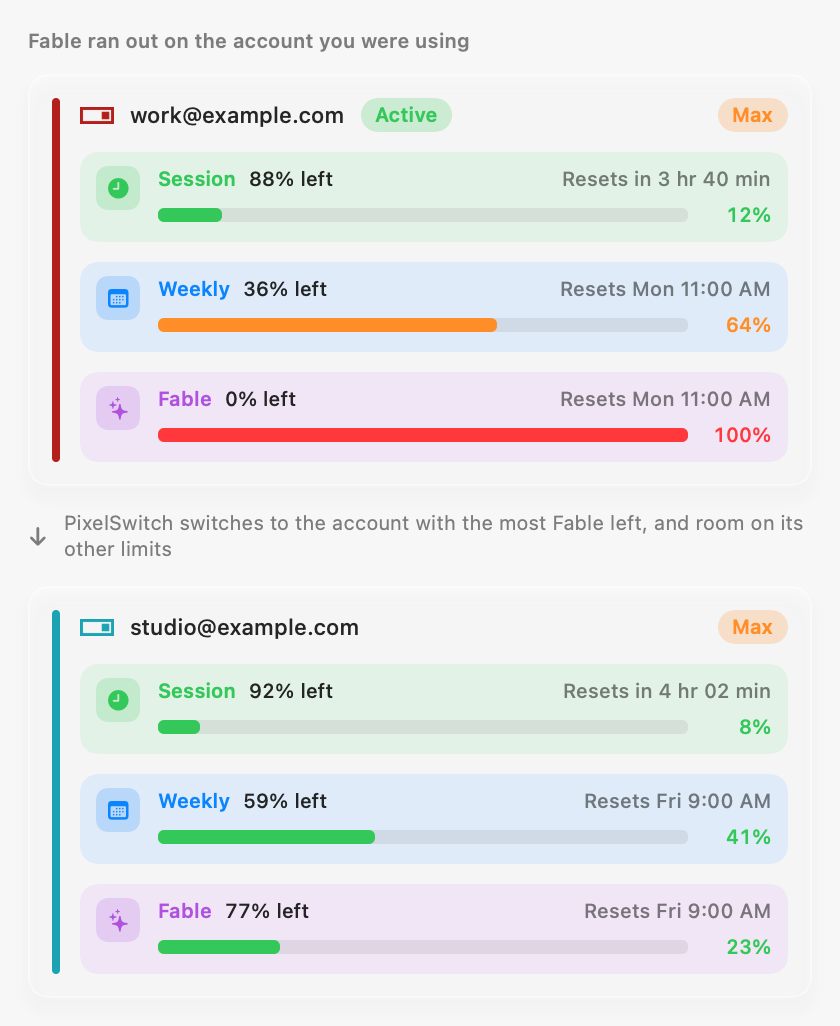
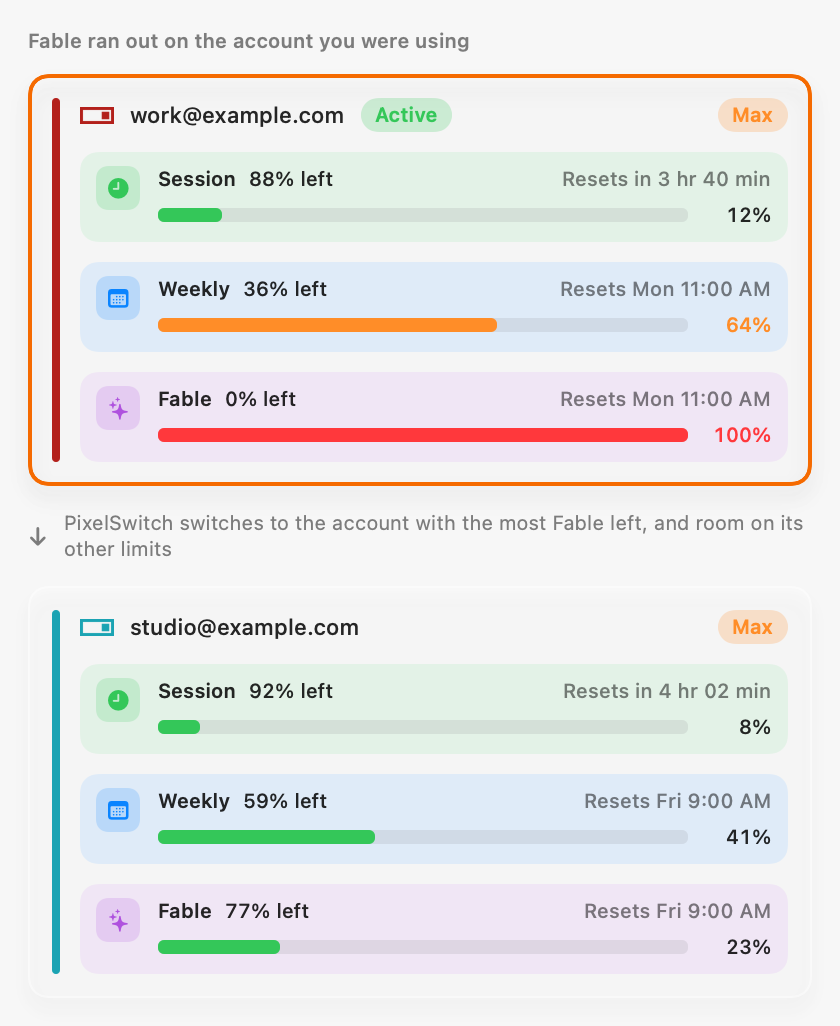
Readable limit rows, and an orange ring round the live account
The three limit labels were drawn in each limit's own colour on a row
tinted with that same colour. Measured on the rendered cards, "Session"
came out at 1.9:1 against its own background, where 4.5:1 is the readable
minimum; Weekly 3.0:1 and Fable 3.4:1 were not much better. The founder's
report was exactly that: "the text is the same color as the background...
I want you to make the text black."

So the words are now plain text, which is black in light appearance and
white in dark: measured 12.9:1 to 13.3:1 light, 12.0:1 to 12.7:1 dark.
Colour stays in the chip, the row tint and the bar, which are shapes
rather than type. The used-percentage keeps the alarm colour while a limit
is nearly gone, because red on a green, blue or purple tint is the
opposite of camouflage; MenuBarConfig.limitIsLow mirrors the two branches
of limitBarColor so the figure and the bar can never disagree.

The account signed in right now is ringed in bright orange all the way
round its card, on the Usage tab and in the Accounts list, from its own
colour token rather than the brand coral, which sits beside the plan badge
and would read as decoration. The green "Active" badge stays; a badge has
to be hunted for and a ring does not.

95 unit tests pass; swiftc -emit-sil is clean under Swift 6. README
pictures re-rendered from the real views.

diff --git a/PixelSwitch/Views/Components/UsageLimitRow.swift b/PixelSwitch/Views/Components/UsageLimitRow.swift
@@ -3,11 +3,19 @@ import SwiftUI
 /// One limit's row on an account's Usage card.
 ///
 /// Which limit a row is and how full it is are shown by different things, on
-/// purpose. The chip, its symbol, the label and the row's tint are the limit's
-/// identity and never change with usage; the bar fill and the percentage keep
-/// their own meaning and turn red as a limit runs out. Before this, a card's
-/// three bars were coloured only by how full they were, so Weekly and Fable
-/// were both blue, and both red once they were nearly out.
+/// purpose. The chip, its symbol and the row's tint are the limit's identity
+/// and never change with usage; the bar fill turns red as a limit runs out.
+/// Before this, a card's three bars were coloured only by how full they were,
+/// so Weekly and Fable were both blue, and both red once they were nearly out.
+///
+/// **The words are never the colour of what they sit on.** The label used to be
+/// drawn in the limit's own colour, on a row tinted with that same colour, and
+/// the founder's verdict was blunt: "the text is the same color as the
+/// background... I want you to make the text black." So every figure and label
+/// here is plain text, and the colour lives in the chip, the tint and the bar,
+/// which are shapes rather than type. The one exception is the used-percentage
+/// when a limit is nearly gone: red on a green, blue or purple tint is the
+/// opposite of camouflage, and losing that alarm would cost more than it saved.
 struct UsageLimitRow: View {
     let kind: LimitBarKind
     /// "Session", "Weekly", "Fable".
@@ -23,6 +31,10 @@ struct UsageLimitRow: View {
     let identityColor: Color
     /// The bar's fill colour, which does follow how full the limit is.
     let fillColor: Color
+    /// True once the limit is inside the warning threshold, i.e. `fillColor` is
+    /// the alarm colour rather than the limit's own. Only then does a figure
+    /// keep its colour; the rest of the time it is plain text.
+    var isLow: Bool = false
 
     private var clamped: Double { min(max(utilization, 0), 100) }
     private var percentLeft: Int { Int((100 - clamped).rounded()) }
@@ -35,7 +47,7 @@ struct UsageLimitRow: View {
                 HStack(spacing: 6) {
                     Text(title)
                         .font(.caption.weight(.semibold))
-                        .foregroundStyle(identityColor)
+                        .foregroundStyle(.primary)
                         .lineLimit(1)
                         .layoutPriority(1)
 
@@ -70,7 +82,7 @@ struct UsageLimitRow: View {
 
                     Text("\(Int(clamped))%")
                         .font(.caption.weight(.medium).monospacedDigit())
-                        .foregroundStyle(fillColor)
+                        .foregroundStyle(isLow ? fillColor : Color.primary)
                         .frame(width: 34, alignment: .trailing)
                 }
             }

diff --git a/PixelSwitch/Models/AppStyle.swift b/PixelSwitch/Models/AppStyle.swift
@@ -30,6 +30,9 @@ enum AppStyle {
 struct CardStyleModifier: ViewModifier {
     var fill: Color = .cardFill
     var border: Color = .cardBorder
+    /// `strokeBorder` insets by half of this, so a thicker ring grows inwards
+    /// and a card never gets wider than its neighbours.
+    var borderWidth: CGFloat = 1
     var hasShadow: Bool = true
 
     func body(content: Content) -> some View {
@@ -38,7 +41,7 @@ struct CardStyleModifier: ViewModifier {
             .background(
                 RoundedRectangle(cornerRadius: AppStyle.cardCornerRadius)
                     .fill(fill)
-                    .strokeBorder(border, lineWidth: 1)
+                    .strokeBorder(border, lineWidth: borderWidth)
                     .shadow(
                         color: hasShadow ? AppStyle.cardShadowColor : .clear,
                         radius: AppStyle.cardShadowRadius,
@@ -51,8 +54,8 @@ struct CardStyleModifier: ViewModifier {
 
 extension View {
     /// Standard card style with fill, border, shadow, and content padding.
-    func cardStyle(fill: Color = .cardFill, border: Color = .cardBorder, hasShadow: Bool = true) -> some View {
-        modifier(CardStyleModifier(fill: fill, border: border, hasShadow: hasShadow))
+    func cardStyle(fill: Color = .cardFill, border: Color = .cardBorder, borderWidth: CGFloat = 1, hasShadow: Bool = true) -> some View {
+        modifier(CardStyleModifier(fill: fill, border: border, borderWidth: borderWidth, hasShadow: hasShadow))
     }
 
     /// Standard horizontal padding for sections within the popover.

diff --git a/PixelSwitch/Models/BrandColor.swift b/PixelSwitch/Models/BrandColor.swift
@@ -57,6 +57,17 @@ extension Color {
     static let cardFillStrong = adaptive(light: Color.white.opacity(0.25), dark: Color.black.opacity(0.28))
     /// Standard card border.
     static let cardBorder = adaptive(light: Color.white.opacity(0.40), dark: Color.white.opacity(0.20))
+    /// The ring drawn right round the account that is signed in right now.
+    ///
+    /// Its own token rather than `.brand`: the brand coral sits next to the
+    /// "Max" badge and would read as decoration. This is a bright orange that
+    /// appears nowhere else in a card, so the live account is found by glance
+    /// instead of by hunting for the small "Active" badge. Deeper in light
+    /// appearance and brighter in dark, so it carries on both.
+    static let activeAccountRing = adaptive(
+        light: Color(red: 0xF5 / 255.0, green: 0x6A / 255.0, blue: 0x00 / 255.0),  // #F56A00
+        dark: Color(red: 0xFF / 255.0, green: 0x94 / 255.0, blue: 0x2E / 255.0)    // #FF942E
+    )
 
     // MARK: - Tab Bar
 
@@ -85,6 +96,7 @@ extension ShapeStyle where Self == Color {
     static var cardFill: Color { .cardFill }
     static var cardFillStrong: Color { .cardFillStrong }
     static var cardBorder: Color { .cardBorder }
+    static var activeAccountRing: Color { .activeAccountRing }
     static var tabFill: Color { .tabFill }
     static var tabBorder: Color { .tabBorder }
     static var textPrimary: Color { .textPrimary }

diff --git a/PixelSwitch/Models/MenuBarConfig.swift b/PixelSwitch/Models/MenuBarConfig.swift
@@ -197,6 +197,20 @@ final class MenuBarConfig: ObservableObject {
         return limitIdentityColor(for: kind)
     }
 
+    /// True when the bar is showing its alarm colour rather than the limit's own.
+    ///
+    /// `UsageLimitRow` asks this before it lets a figure keep a colour. An alarm
+    /// colour never matches the row's tint, so it stays legible; a healthy one
+    /// IS the tint, which is exactly how a figure ended up invisible on its own
+    /// background. The two branches mirror `limitBarColor` above: the stock
+    /// palette leaves green at 60% used, a custom palette at its own threshold.
+    func limitIsLow(utilization: Double?) -> Bool {
+        guard let utilization else { return false }
+        let used = min(max(utilization, 0), 100)
+        guard customizesLimitBarColors else { return used >= 60 }
+        return (100.0 - used) <= min(max(lowRemainingWarningThreshold, 0), 100)
+    }
+
     /// The colour that says WHICH limit a row is, independent of how full it is.
     /// The bar fill still turns red when a limit is nearly out; this never does,
     /// so two limits that are both nearly out stay tellable apart.

diff --git a/PixelSwitch/Views/UsageDashboardView.swift b/PixelSwitch/Views/UsageDashboardView.swift
@@ -256,7 +256,13 @@ struct UsageDashboardView: View {
             }
         }
         }
-        .cardStyle()
+        // The account you are signed in to right now is ringed in orange, all
+        // the way round. The small green "Active" badge is still there, but a
+        // badge has to be hunted for; a ring is seen without reading anything.
+        .cardStyle(
+            border: account.isActive ? .activeAccountRing : .cardBorder,
+            borderWidth: account.isActive ? 2 : 1
+        )
         .sectionPadding()
     }
 
@@ -356,7 +362,8 @@ struct UsageDashboardView: View {
             resetText: resetText,
             resetIsAbsolute: resetIsAbsolute,
             identityColor: menuBarConfig.limitIdentityColor(for: kind),
-            fillColor: menuBarConfig.limitBarColor(for: kind, utilization: utilization, context: .dashboard)
+            fillColor: menuBarConfig.limitBarColor(for: kind, utilization: utilization, context: .dashboard),
+            isLow: menuBarConfig.limitIsLow(utilization: utilization)
         )
     }
 }

diff --git a/Tools/screenshots/make_screenshots.swift b/Tools/screenshots/make_screenshots.swift
@@ -57,7 +57,8 @@ private struct Card: View {
         UsageLimitRow(kind: kind, title: title, utilization: used, resetText: reset,
                       resetIsAbsolute: reset.contains(":"),
                       identityColor: config.limitIdentityColor(for: kind),
-                      fillColor: config.limitBarColor(for: kind, utilization: used, context: .dashboard))
+                      fillColor: config.limitBarColor(for: kind, utilization: used, context: .dashboard),
+                      isLow: config.limitIsLow(utilization: used))
     }
 
     var body: some View {
@@ -95,7 +96,10 @@ private struct Card: View {
                 row(.fable, "Fable", account.fable, account.weekReset)
             }
         }
-        .cardStyle()
+        .cardStyle(
+            border: account.active ? .activeAccountRing : .cardBorder,
+            borderWidth: account.active ? 2 : 1
+        )
     }
 }
 

diff --git a/PixelSwitch/Views/AccountSwitcherView.swift b/PixelSwitch/Views/AccountSwitcherView.swift
@@ -179,7 +179,10 @@ struct AccountSwitcherView: View {
         .background(
             RoundedRectangle(cornerRadius: 10)
                 .fill(account.isActive ? .cardFillStrong : .clear)
-                .strokeBorder(.cardBorder, lineWidth: account.isActive ? 2 : 1)
+                // Same orange ring as the Usage tab, so "this is the one you
+                // are signed in to" looks identical wherever you are looking.
+                .strokeBorder(account.isActive ? Color.activeAccountRing : .cardBorder,
+                              lineWidth: account.isActive ? 2 : 1)
                 .shadow(color: AppStyle.cardShadowColor, radius: AppStyle.cardShadowRadius, x: 0, y: AppStyle.cardShadowY)
         )
     }

diff --git a/README.md b/README.md
@@ -71,7 +71,9 @@ PixelSwitch is built on [CCSwitcher](https://github.com/XueshiQiao/CCSwitcher) b
   </picture>
 </p>
 
-One card per account, each with the PixelSwitch mark and a colour of its own down the left edge, so you know whose numbers these are before you read the address. Inside, each limit keeps an identity that never changes: a **green clock** for the 5-hour session, a **blue calendar** for the weekly limit, a **purple sparkle** for the weekly Fable allowance. The bar is the other half of the story: it fills and turns red as that limit runs out, which is why two limits that are both nearly gone still read apart at a glance.
+One card per account, each with the PixelSwitch mark and a colour of its own down the left edge, so you know whose numbers these are before you read the address. The account you are signed in to right now is ringed in orange, all the way round. Inside, each limit keeps an identity that never changes: a **green clock** for the 5-hour session, a **blue calendar** for the weekly limit, a **purple sparkle** for the weekly Fable allowance. The bar is the other half of the story: it fills and turns red as that limit runs out, which is why two limits that are both nearly gone still read apart at a glance.
+
+The colour is in the chip, the tint and the bar. The words are always plain text, because a label drawn in its own row's colour is a label you cannot read.
 
 This account is nearly out of its session and has 13% of its Fable left. With auto-switch on, PixelSwitch would move to an account that still has room before that stopped anyone.
 
@@ -82,6 +84,7 @@ This account is nearly out of its session and has 13% of its Fable left. With au
 - **Usage Dashboard**: Every account's limits in the menu bar dropdown — 5-hour session, weekly, and the weekly **Fable** allowance — each showing how much is left and when it resets, plus today's API-equivalent cost and activity stats (turns, active minutes, lines written, model breakdown). Each limit has its own colour and symbol that never change with usage (green clock, blue calendar, purple sparkle), while the bar itself fills and turns red as the limit runs out, so two limits that are both nearly gone still read apart at a glance.
 - **Auto-switch before a limit stops you**: when the active account reaches your threshold on its session, weekly or Fable limit, PixelSwitch switches to the account with the most room left on that limit — and only to one that is also clear of its other limits, so it never has to move you twice. If no account has room, it stays put. Fable switching has its own on/off switch, so you can keep session and weekly switching while leaving Fable as a reading. A 5-minute cooldown and a 10-point hysteresis margin stop any ping-ponging, and the chosen account is re-checked with a fresh reading before the switch happens.
 - **A colour per account**: each account has its own colour, shown as a bar down the edge of its card and on its icon, so you know whose numbers you are reading before you read the address. Ten colours, repeating only past ten accounts, and each account keeps its colour between launches. Turn it off in **Settings → Account display**.
+- **The live account is ringed in orange**: the account you are signed in to right now carries a bright orange ring right round its card, on the Usage tab and in the Accounts list, so you find it without reading anything.
 - **Honest cost history**: the Costs tab totals only the history PixelSwitch actually keeps, which is bounded by your usage history window. A "Last 7 days" or "Last 30 days" total appears only when that much history exists; otherwise one card states the real span.
 - **Configurable Menu Bar Modules**: Build your own iStats-style menu bar readout. Choose any combination of the PixelSwitch logo, account name, 5-hour session usage, weekly usage, Fable usage, today's cost, and session/weekly reset countdowns — each rendered as a compact two-line module (label over value, with monochrome progress bars for utilization). Drag to reorder and toggle modules in Settings, with a live preview.
 - **Desktop Widgets**: Native macOS desktop widgets in small, medium, and large sizes showing account usage, costs, and activity stats, plus a circular ring variant. Widgets need a build signed with an Apple Developer ID; the public release is not signed yet, so its widgets do not load (see [Install](#install)).

diff --git a/RELEASE_NOTES.md b/RELEASE_NOTES.md
@@ -1,24 +1,20 @@
-## PixelSwitch 1.0.9
+## PixelSwitch 1.0.10
 
 ### Fixed
 
-- **The PixelSwitch mark beside every account.** Each account still showed the head glyph inherited from CCSwitcher, on its card and in the Accounts list. Both now show the PixelSwitch mark, in that account's colour.
-- **The pictures in the README no longer use real email addresses.** They were rendered with the author's own accounts; they now use invented ones on `example.com`, the domain reserved for documentation.
+- **You can read the limit rows now.** "Session", "Weekly" and "Fable" were drawn in each limit's own colour, on a row tinted with that same colour, so the words disappeared into their own background: measured at **1.9:1** for Session, where 4.5:1 is the readable minimum. Every label and figure in a row is now plain text, measured at **12.9:1 or better** in both light and dark appearance. The colour moved to the chip, the row tint and the bar, which are shapes rather than type.
+- A used-percentage still keeps its colour while a limit is nearly gone, because red on a green, blue or purple tint is the opposite of camouflage, and that is the one warning worth shouting.
 
 ### New
 
-- **The README shows what auto-switch does**: the account that has run out of Fable, and the account PixelSwitch moves to, drawn with the same cards the app draws.
+- **The account you are signed in to is ringed in bright orange, all the way round its card** — on the Usage tab and in the Accounts list. The small green "Active" badge is still there, but a badge has to be hunted for and a ring does not.
 
-#### Included from 1.0.8
+#### Included from 1.0.9 to 1.0.2
 
-- **Fable auto-switching has its own switch**: Settings → Auto-switch → "Also switch when Fable runs out", on by default. Off leaves Fable as a reading while the 5-hour and weekly limits keep switching.
-
-#### Included from 1.0.7 to 1.0.2
-
-- A colour per account, shown as the bar down the edge of its card; the app's own mark in the panel header and menu bar; cost totals that only claim the history actually kept; Session, Weekly and Fable each with their own colour and symbol; auto-switch covering Fable; MCP logins that survive a switch; a switch that cannot mix up two accounts.
+- The PixelSwitch mark beside every account; a colour per account down the edge of its card; a switch for Fable auto-switching; cost totals that only claim the history actually kept; Session, Weekly and Fable each with their own colour and symbol; auto-switch covering the weekly Fable allowance; MCP logins that survive a switch; a switch that cannot mix up two accounts.
 
 ### Good to know
 
 - This build is not signed with an Apple Developer ID yet. The first time you open it, clear the download flag with `xattr -dr com.apple.quarantine /Applications/PixelSwitch.app`, or use System Settings → Privacy & Security → Open Anyway.
 
-**Full Changelog**: https://github.com/BespokeWoodcraftStudio/PixelSwitch/compare/v1.0.8...v1.0.9
+**Full Changelog**: https://github.com/BespokeWoodcraftStudio/PixelSwitch/compare/v1.0.9...v1.0.10
